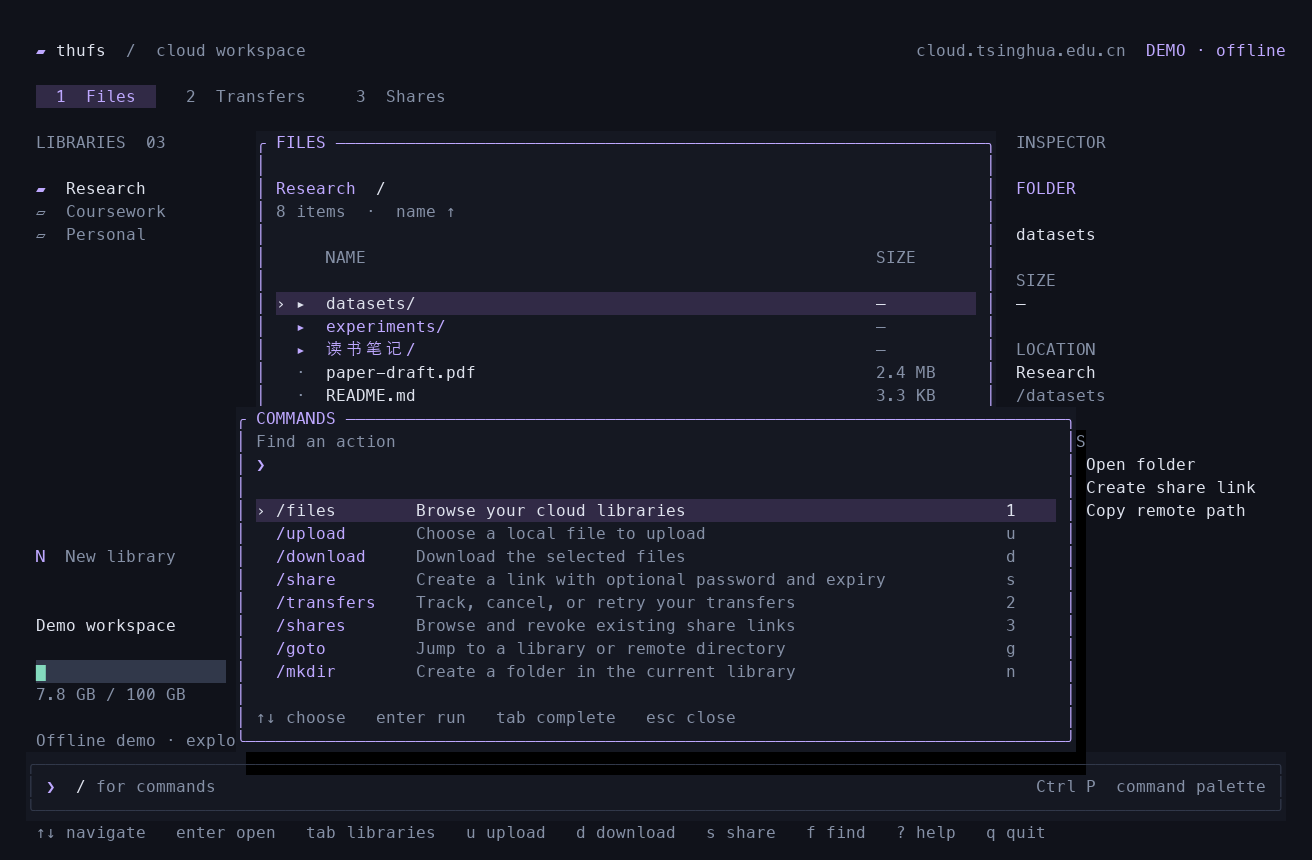
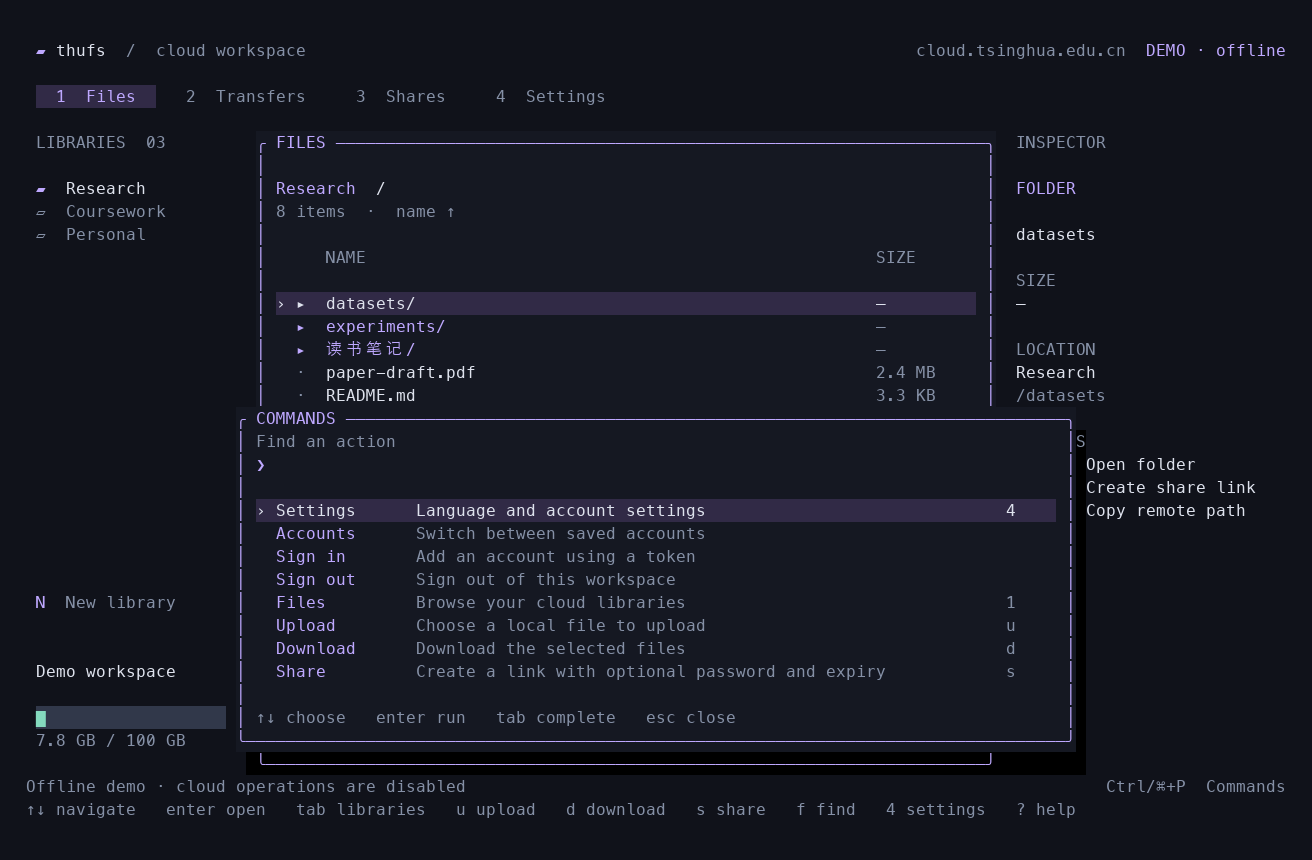
docs(02-02): document TUI login, settings, and path selection

diff --git a/docs/tui.md b/docs/tui.md
@@ -2,8 +2,8 @@
 
 ## 启动
 
-TUI 使用已有的 thufs 配置和 `THUFS_TOKEN`，无需再次登录。
-如果令牌在 shell 配置文件中设置，先在当前终端加载该文件。
+TUI 可以直接使用已有的 thufs 配置和 `THUFS_TOKEN`。
+没有可用令牌时会显示 Token 登录表单，无需先退出 TUI 执行认证命令。
 
 ```bash
 thufs tui
@@ -29,14 +29,14 @@ thufs tui --demo
 
 ## 工作区
 
-顶部的 `Files`、`Transfers` 和 `Shares` 分别对应文件、传输和分享。
-按 `1`、`2`、`3` 切换，文件位置会保留。
+顶部提供文件、传输、分享和设置四个工作区。
+按 `1`、`2`、`3`、`4` 切换，文件位置会保留。
 
 ![文件工作区的离线演示](./assets/tui-files.png)
 
 文件工作区采用深色背景、紫色焦点和绿色状态提示。
 左侧显示资料库和账号容量，中间显示目录，右侧显示所选项目的路径、体积和可用操作。
-底部固定保留命令入口、状态消息和当前快捷键。
+底部仅显示状态消息和快捷键提示。命令面板通过快捷键唤出。
 界面使用普通 Unicode 字符，无需安装 Nerd Font。
 
 最低终端尺寸为 60 × 18。
@@ -46,8 +46,9 @@ thufs tui --demo
 
 ## 命令面板
 
-按 `/`、`:` 或 `Ctrl+P` 打开命令面板。
-输入操作名称或说明中的词，使用模糊匹配查找操作。
+按 `Ctrl+P` 打开或收起命令面板。macOS 上也支持终端转发的 `Cmd+P`。
+如果终端拦截了 `Cmd+P`，使用 `Ctrl+P`。
+输入中文或英文的操作名称，也可以用说明中的词进行模糊匹配。
 按上下键选择，`Tab` 补全，`Enter` 执行，`Esc` 关闭。
 
 ![命令面板的离线演示](./assets/tui-commands.png)
@@ -55,11 +56,39 @@ thufs tui --demo
 面板提供以下命令：
 
 ```text
-/files      /upload     /download    /share
-/transfers  /shares     /goto        /mkdir
-/mkrepo     /refresh    /sort        /details
-/help       /quit
+Settings    Accounts    Sign in     Sign out
+Files       Upload      Download    Share
+Transfers   Shares      Goto        Mkdir
+Mkrepo      Refresh     Sort        Details
+Help        Quit
 ```
+
+## 设置、登录和账号切换
+
+按 `4` 打开设置，用上下键选择项目，按 `Enter` 更改。
+语言项也可以使用左右键切换，修改后立即应用并保存。
+支持 English 和简体中文；首次使用时根据 shell 的语言环境选择，之后使用保存的设置。
+文件名、路径和账号名称保持原文。
+
+![简体中文设置页](./assets/tui-settings.png)
+
+未登录时会打开 Token 表单，也可以从设置中选择“使用 Token 登录”或“添加账号”。
+粘贴清华云盘 API Token，可填写账号名称，然后按 `Enter` 验证。
+密码式输入会隐藏 Token；验证成功后才保存并激活账号。
+验证失败时保留当前账号，可以在原表单中更正 Token 后重试。
+表单中提供 [Token 获取页面](https://cloud.tsinghua.edu.cn/profile/#get-auth-token) 的地址。
+
+![Token 登录表单](./assets/tui-login.png)
+
+选择“切换账号”后，可使用已保存的账号，也可以选择环境变量或 CLI 配置中的账号。
+新账号验证成功后会清除上一账号的目录、分享和传输记录，旧请求不会覆盖新会话。
+仍有传输任务时，需要先完成或取消任务，再切换或退出账号。
+语言设置可以在传输期间更改。
+
+TUI 设置和已保存的账号保存在配置目录的 `tui.json` 中，Unix 文件权限为 `0600`。
+显式选择的 TUI 账号优先于 `THUFS_TOKEN`；未选择账号时，按环境变量和 CLI 配置的顺序读取。
+该选择只影响 TUI，CLI 的配置文件和环境变量优先级保持原样。
+“退出登录”会结束当前 TUI 会话并保持退出状态，已保存的账号仍可在列表中重新选择。
 
 ## 浏览与筛选
 
@@ -76,14 +105,43 @@ thufs tui --demo
 
 ## 上传和下载
 
-上传时先打开目标云盘目录，再按 `u`：
+上传时先打开目标云盘目录，再按 `u`。
+路径输入框支持文件名、相对路径、绝对路径和 `~`；中文和带空格的路径可直接输入。
 
-1. 在本地选择器中选择文件。`Enter` 打开目录，`h` 返回父目录，`.` 切换隐藏文件。
-2. 检查本地路径和远程目标，可直接修改两个输入框。
-3. 用 `Ctrl+O` 选择冲突策略，按 `Enter` 加入传输队列。
+```text
+report
+../results/report.pdf
+~/Downloads/论文草稿.pdf
+~/Downloads/report*.pdf
+```
 
-本地选择器支持指向普通文件或目录的有效符号链接。
-选定上传文件后，所在目录会成为新的本地工作目录。
+普通文本使用前缀和模糊匹配，`*`、`?` 和 `[ab]` 使用通配符匹配。
+上下键选择匹配结果，`Tab` 补全共同前缀或当前结果，`Enter` 打开目录或选择文件。
+路径不正确或没有匹配结果时，可以直接继续编辑。
+
+![上传路径匹配和多选](./assets/tui-upload.png)
+
+| 按键 | 选择器中的作用 |
+| --- | --- |
+| `↑` / `↓` | 选择匹配结果 |
+| `Tab` | 补全路径；目录补上分隔符 |
+| `Enter` | 打开目录，或进入上传确认 |
+| `Ctrl+A` | 选择或取消选择全部匹配文件 |
+| `Ctrl+Space` | 选择或取消选择当前文件 |
+| `Ctrl+L` | 清空输入，重新输入路径 |
+| `Alt+↑` | 返回当前浏览目录的父目录 |
+| `Alt+.` | 切换隐藏文件；直接输入 `.` 开头的名称也能匹配隐藏文件 |
+| `Esc` | 放弃选择 |
+
+确认上传前可以检查目标和冲突策略。
+单文件可以修改本地路径和远程文件名；多个文件可以统一指定远程目录。
+用 `Ctrl+O` 选择冲突策略，再按 `Enter` 加入传输队列。
+
+本地选择器支持有效的文件和目录符号链接。
+选定文件后，所在目录会成为新的本地工作目录。
+最多显示 2000 个匹配结果；结果更多时请缩小范围。
+暂不接受 `**` 递归通配符，也不递归上传文件夹。
+离线演示可以浏览本地文件并查看上传确认，但不会执行传输。
 
 下载时选中文件，按 `d`，检查保存目录后确认。
 有多选文件时会逐个入队；没有多选时下载当前文件。
@@ -123,8 +181,8 @@ thufs tui --demo
 
 | 按键 | 作用 |
 | --- | --- |
-| `1` / `2` / `3` | 文件 / 传输 / 分享 |
-| `/` / `:` / `Ctrl+P` | 命令面板 |
+| `1` / `2` / `3` / `4` | 文件 / 传输 / 分享 / 设置 |
+| `Ctrl+P` / 可转发的 `Cmd+P` | 打开或收起命令面板 |
 | `↑` / `↓`、`j` / `k` | 移动光标 |
 | `Enter` / `→` / `l` | 打开项目或查看详情 |
 | `←` / `h` / 退格键 | 父目录或资料库列表 |
@@ -141,7 +199,8 @@ thufs tui --demo
 | `q` / `Ctrl+C` | 退出；有传输时先确认 |
 
 输入框支持中文、组合字符、emoji 和终端粘贴。
-`Ctrl+A/E` 移到行首或行尾，`Ctrl+U/K` 删除光标前或后的内容，`Ctrl+W` 删除前一个词。
+普通表单中，`Ctrl+A/E` 移到行首或行尾；`Ctrl+U/K` 删除光标前或后的内容，`Ctrl+W` 删除前一个词。
+路径选择器中的 `Ctrl+A` 用于全选匹配文件，编辑路径时可用 `Home` 移到行首。
 
 主工作区支持鼠标单击选择、双击打开、点击工作区标签和滚轮移动列表。
 需要用鼠标选择终端文字时，可关闭鼠标捕获：
@@ -160,14 +219,15 @@ macOS 使用 `pbcopy` 复制，Windows 使用 `clip`，Linux 依次尝试 `wl-co
 
 | 参考 | 本项目采用的方式 |
 | --- | --- |
-| [Codex 命令弹窗](https://github.com/openai/codex/blob/main/codex-rs/tui/src/bottom_pane/command_popup.rs) | 底部命令入口、可搜索的操作列表、名称和说明并列展示 |
+| [Codex 命令弹窗](https://github.com/openai/codex/blob/main/codex-rs/tui/src/bottom_pane/command_popup.rs) | 快捷键唤出的操作列表、名称和说明并列展示 |
 | [Yazi 导航](https://yazi-rs.github.io/docs/quick-start/) | 方向键和 Vim 键位并存，进入目录、返回父目录和多选操作 |
 | [Lazygit 快捷键](https://github.com/jesseduffield/lazygit/blob/master/docs/keybindings/Keybindings_en.md) | 根据当前工作区展示操作提示，确认后执行会改变远程状态的操作 |
 | [Ratatui 渲染](https://ratatui.rs/concepts/rendering/) | 状态驱动的界面绘制，将网络等待与输入循环分开 |
 
-代码按职责分为终端生命周期、状态与事件、后台操作、绘制和输入编辑五部分。
+代码将终端生命周期、状态与事件、后台操作、绘制、输入编辑、账号设置和路径匹配分开。
 资料库、目录和分享读取在后台线程执行，请求编号用于丢弃旧目录的延迟响应。
 后台操作最多同时执行 4 个，尚未开始的同类读取只保留最新请求。
+账号切换还会递增会话代次，丢弃旧账号的延迟响应。令牌通过会话参数传给服务，通过子进程环境传给传输，不修改全局环境。
 TUI 中的元数据 HTTP 请求设置 30 秒超时，连接超时为 10 秒。
 
 传输启动同一 thufs 可执行文件，使用 `--json` 和 `--progress jsonl` 读取结果和进度。
@@ -178,3 +238,6 @@ TUI 中的元数据 HTTP 请求设置 30 秒超时，连接超时为 10 秒。
 TUI 需要交互式 stdin、stdout 和支持光标控制的终端，不接受 `--json`。
 文件详情仅展示元数据；当前不支持递归目录传输、文件内容预览和跨会话队列恢复。
 下载使用 CLI 默认的单线程模式，需要指定并发模式时可使用 `thufs download --mode parallel`。
+
+路径匹配使用 [glob 的匹配规则](https://docs.rs/glob/latest/glob/fn.glob_with.html)。
+修饰键读取使用 [Crossterm 的键盘增强协议](https://docs.rs/crossterm/0.28.1/crossterm/event/struct.PushKeyboardEnhancementFlags.html)，启动和退出时成对设置与恢复。

diff --git a/README.en.md b/README.en.md
@@ -114,6 +114,9 @@ Supported environment overrides:
 
 The model is file-first configuration with environment overrides for temporary sessions and scripts.
 
+TUI language preferences and saved accounts live in `tui.json` alongside the CLI configuration.
+An account explicitly selected in the TUI takes priority over `THUFS_TOKEN` for that TUI session; CLI configuration behavior stays the same.
+
 ## Remote Path Syntax
 
 The canonical explicit remote form is:
@@ -157,7 +160,7 @@ thufs upload ./report.pdf submissions/
 
 ## Quick Start
 
-Open the interactive workspace with your existing token:
+Open the interactive workspace. If no token is configured, the TUI opens a token login form:
 
 ```bash
 thufs tui
@@ -173,8 +176,11 @@ cargo run --locked -- tui
 
 ![thufs offline demo: libraries, file browser, and inspector](./docs/assets/tui-files.png)
 
-Press `/` or `Ctrl+P` to search commands, and `1`, `2`, or `3` to switch between Files, Transfers, and Shares.
+Press `Ctrl+P` to open the command palette (`Cmd+P` also works when forwarded by the terminal).
+Use `1`, `2`, `3`, or `4` to switch between Files, Transfers, Shares, and Settings.
 Navigate with arrow keys or `j/k/h/l`; use `Space` to select files, `u` to upload, `d` to download, and `s` to create a share link.
+Settings supports English/Chinese, token login, saved accounts, and account switching.
+The upload picker accepts paths and wildcard patterns, with `Tab` completion and `Ctrl+A` to select all matching files before upload confirmation.
 Press `?` for the full keyboard guide.
 
 Use `thufs tui --demo` for a read-only offline preview without credentials.
@@ -370,7 +376,7 @@ Download mode can also be controlled explicitly:
 
 - full bidirectional sync
 - recursive directory transfer
-- multi-account profile management
+- named multi-account CLI profiles (the TUI supports saved accounts and account switching)
 - generic support for arbitrary Seafile instances
 - GUI or desktop resident sync behavior
 

diff --git a/README.md b/README.md
@@ -132,6 +132,9 @@ thufs --json config show
 
 设计原则是“配置文件优先，环境变量覆盖”，这样既适合日常使用，也适合临时脚本注入。
 
+TUI 的语言和已保存账号另存于同目录的 `tui.json`。
+在 TUI 中显式选择的账号优先于 `THUFS_TOKEN`；CLI 继续按上述规则读取配置。
+
 ## 远程路径规则
 
 显式远程路径的标准形式为：
@@ -187,7 +190,7 @@ thufs upload ./report.pdf submissions/
 
 ### 交互式 TUI
 
-在已有 token 的终端中启动：
+启动交互工作区；未配置 token 时会直接显示登录表单：
 
 ```bash
 thufs tui
@@ -203,8 +206,11 @@ cargo run --locked -- tui
 
 ![thufs TUI 离线演示：资料库、文件列表和详情栏](./docs/assets/tui-files.png)
 
-按 `/` 或 `Ctrl+P` 搜索命令，按 `1`、`2`、`3` 切换文件、传输和分享工作区。
+按 `Ctrl+P` 打开命令面板；终端可转发时也支持 `Cmd+P`。
+按 `1`、`2`、`3`、`4` 切换文件、传输、分享和设置。
 支持方向键和 `j/k/h/l` 导航，`Space` 多选文件，`u` 上传、`d` 下载、`s` 创建分享。
+设置页支持中英文切换、Token 登录、保存账号和切换账号。
+上传选择器支持路径输入、`Tab` 补全和通配符匹配，`Ctrl+A` 可选择全部匹配文件，再确认上传。
 按 `?` 查看帮助。
 
 可以先用 `thufs tui --demo` 浏览只读离线演示。
@@ -441,7 +447,7 @@ thufs download repo:course-lib/slides/week1.pdf ./week1.pdf --progress jsonl
 
 - 完整双向同步
 - 递归目录上传或下载
-- 多账号配置管理
+- CLI 多账号命名配置（TUI 支持保存和切换账号）
 - 任意 Seafile 实例的通用化接入
 - GUI 或桌面常驻同步体验
 
